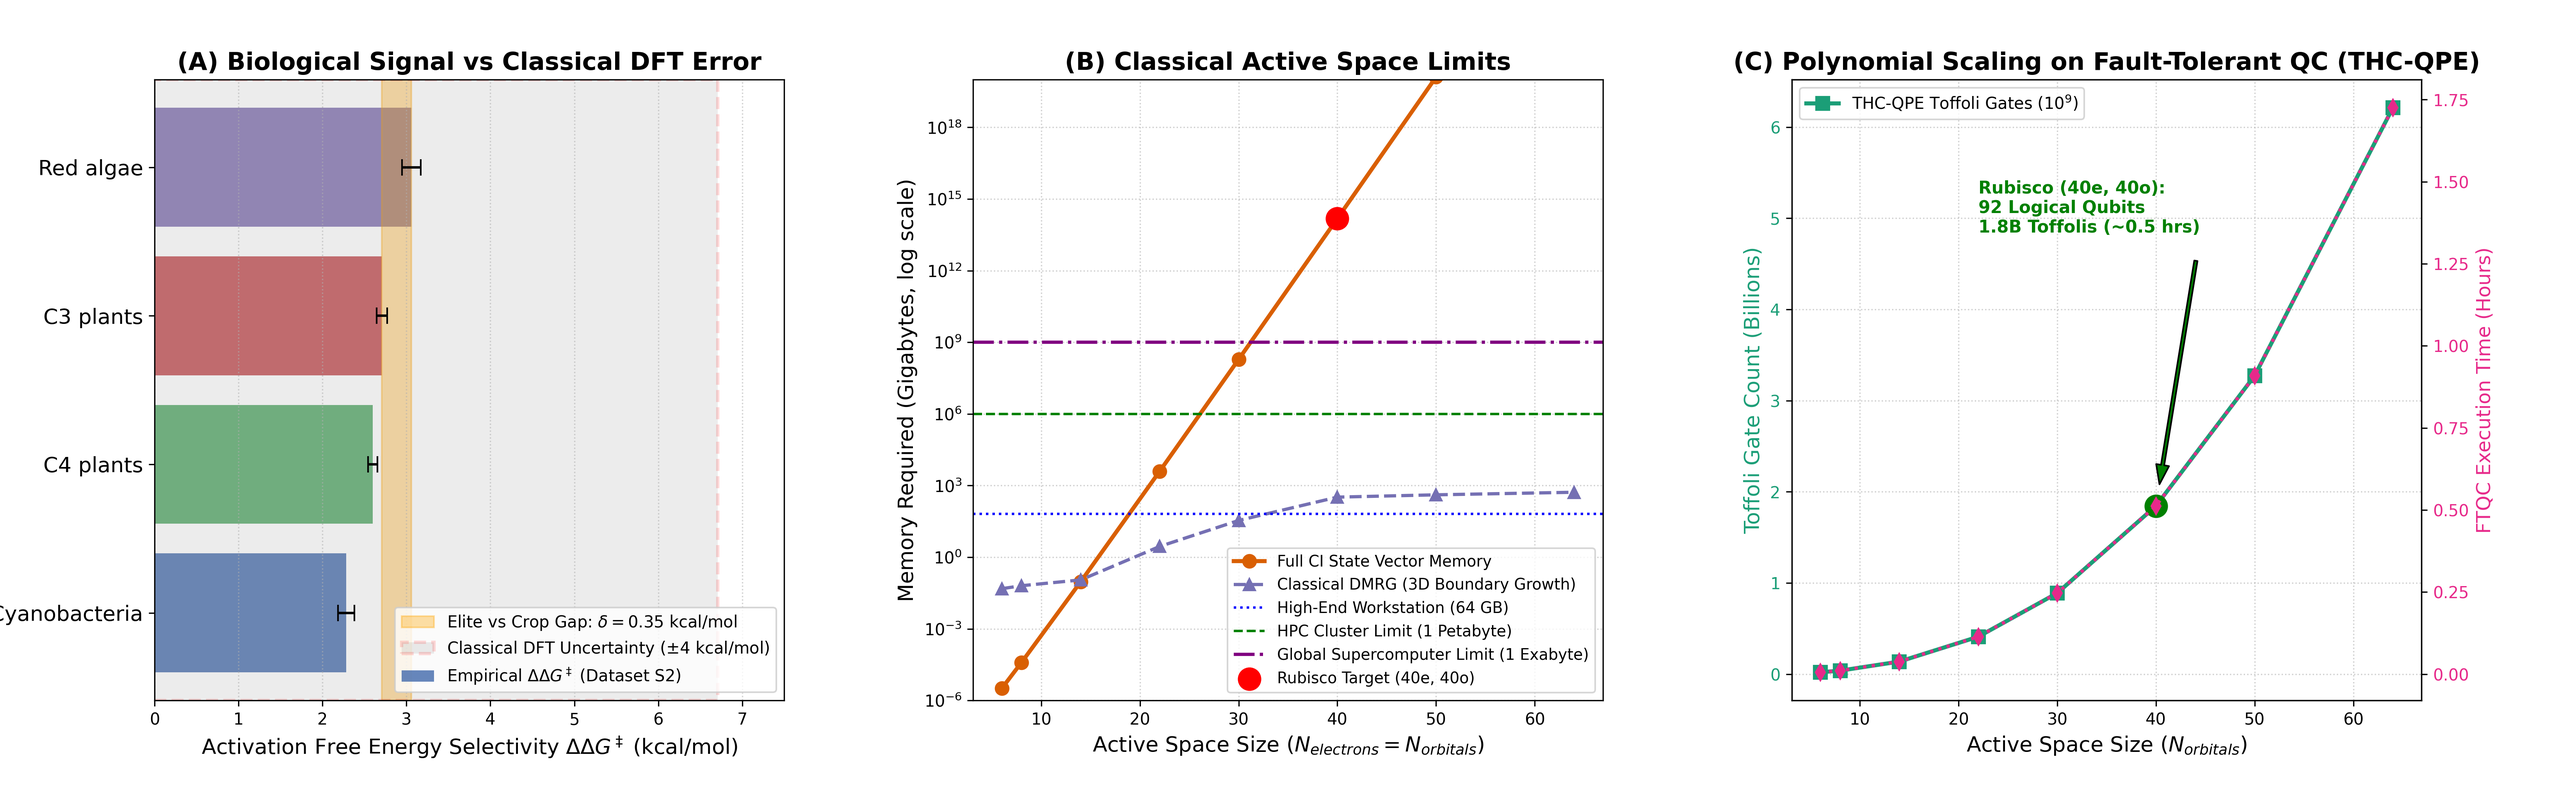
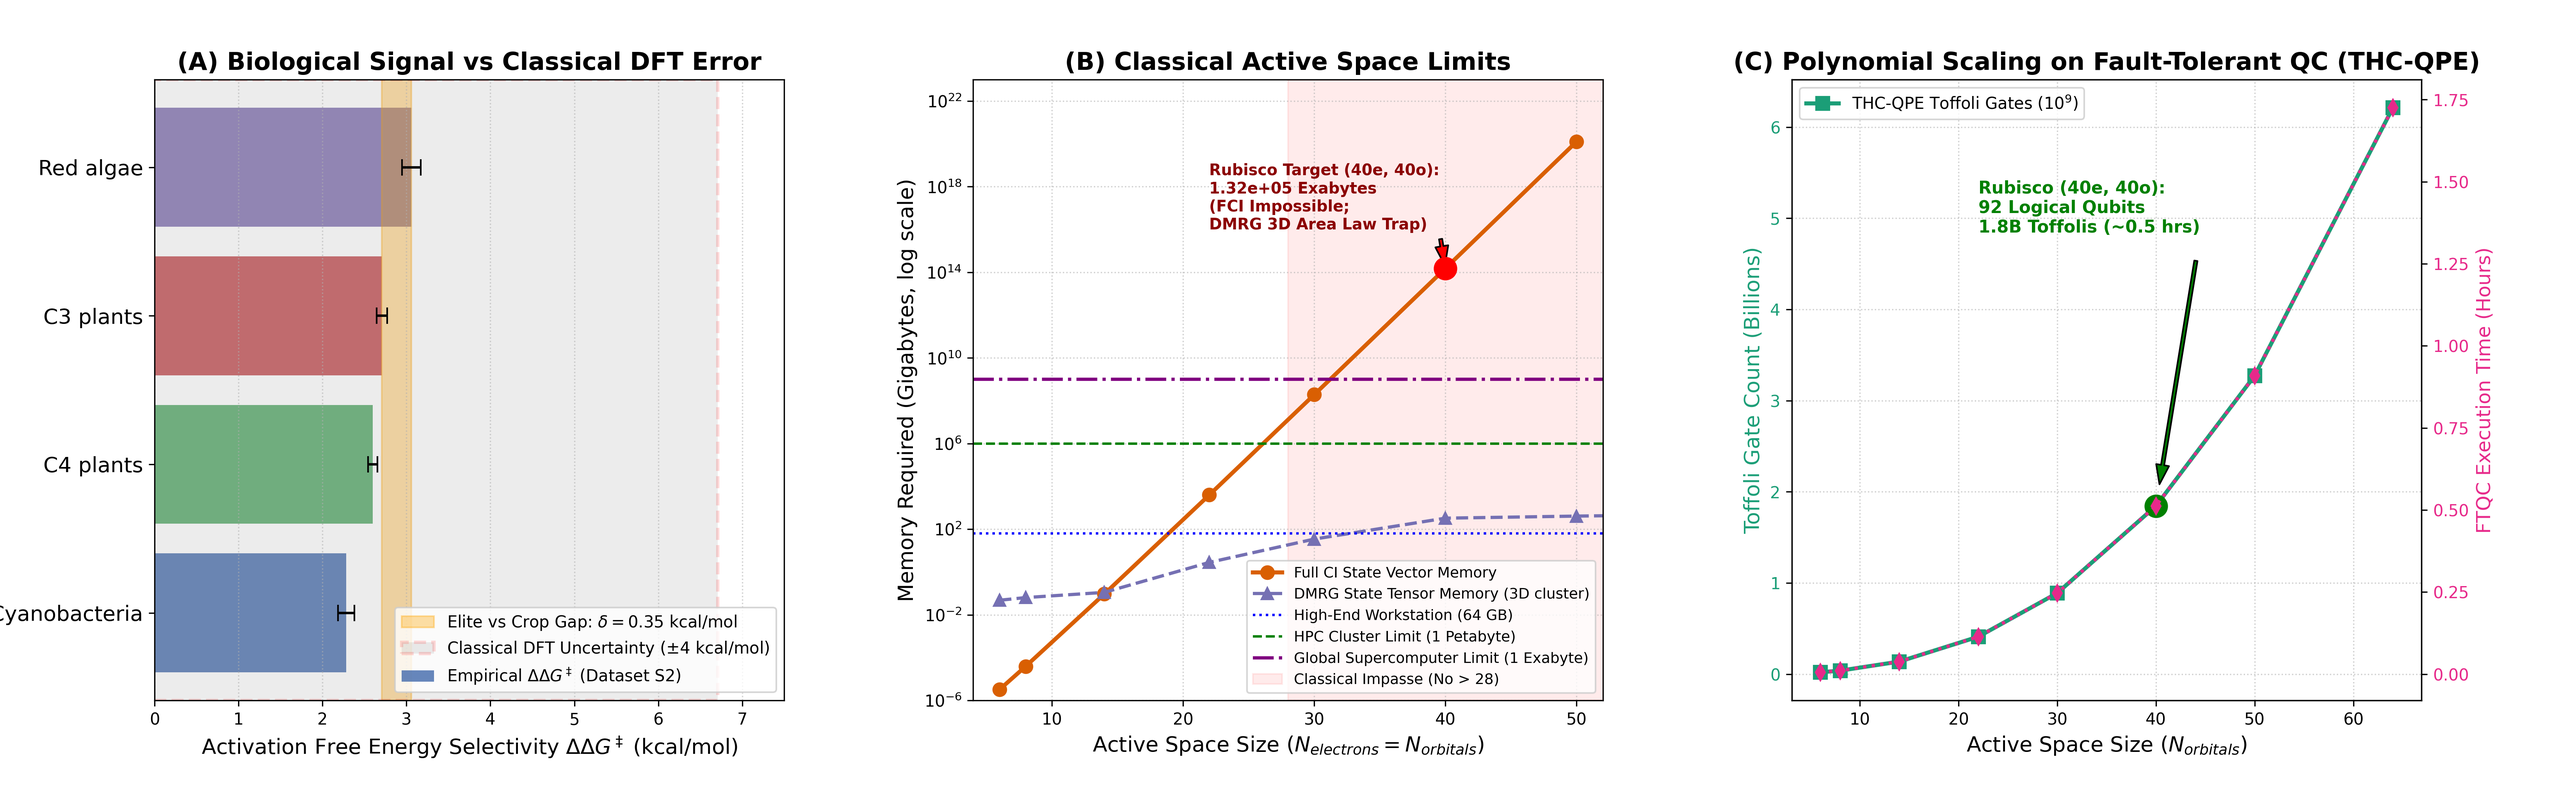
fix: refine classical active space plot bounds, DMRG 3D boundary, and tractability regimes

diff --git a/scripts/quantum_bottleneck_assessment.py b/scripts/quantum_bottleneck_assessment.py
@@ -252,24 +252,37 @@ def generate_proof_figure(stats, scaling_data, output_path="figures/quantum_bott
     fci_mems_gb = [d["fci_mem_bytes"] / 1e9 for d in scaling_data]
     dmrg_mems_gb = [d["dmrg_mem_bytes"] / 1e9 for d in scaling_data]
 
-    ax2.plot(orbs, fci_mems_gb, marker="o", color="#D95F02", linewidth=2.5, markersize=8, label="Full CI State Vector Memory")
-    ax2.plot(orbs, dmrg_mems_gb, marker="^", color="#7570B3", linewidth=2.0, linestyle="--", markersize=7, label="Classical DMRG (3D Boundary Growth)")
+    # Plot Full CI up to No=50 so the line does not clip off ungracefully
+    plot_orbs = [d["No"] for d in scaling_data if d["No"] <= 50]
+    plot_fci = [d["fci_mem_bytes"] / 1e9 for d in scaling_data if d["No"] <= 50]
 
-    # Classical limits
+    ax2.plot(plot_orbs, plot_fci, marker="o", color="#D95F02", linewidth=2.5, markersize=8, label="Full CI State Vector Memory")
+    ax2.plot(orbs, dmrg_mems_gb, marker="^", color="#7570B3", linewidth=2.0, linestyle="--", markersize=7, label="DMRG State Tensor Memory (3D cluster)")
+
+    # Classical hardware limits
     ax2.axhline(64, color="blue", linestyle=":", linewidth=1.5, label="High-End Workstation (64 GB)")
     ax2.axhline(1e6, color="green", linestyle="--", linewidth=1.5, label="HPC Cluster Limit (1 Petabyte)")
     ax2.axhline(1e9, color="purple", linestyle="-.", linewidth=2, label="Global Supercomputer Limit (1 Exabyte)")
 
+    # Shaded classical intractable regime (No > 28)
+    ax2.axvspan(28, 66, color="red", alpha=0.08, label="Classical Impasse (No > 28)")
+
     # Highlight Rubisco Target (40e, 40o)
     target = [d for d in scaling_data if d["No"] == 40][0]
-    ax2.scatter([40], [target["fci_mem_bytes"] / 1e9], color="red", s=180, zorder=5, label="Rubisco Target (40e, 40o)")
+    target_mem_gb = target["fci_mem_bytes"] / 1e9
+    ax2.scatter([40], [target_mem_gb], color="red", s=180, zorder=5)
+    ax2.annotate("Rubisco Target (40e, 40o):\n1.32e+05 Exabytes\n(FCI Impossible;\nDMRG 3D Area Law Trap)",
+                 xy=(40, target_mem_gb), xytext=(22, 1e16),
+                 arrowprops=dict(facecolor="red", shrink=0.08, width=2, headwidth=8),
+                 fontsize=9.5, fontweight="bold", color="darkred")
 
     ax2.set_yscale("log")
     ax2.set_xlabel("Active Space Size ($N_{electrons} = N_{orbitals}$)", fontsize=13)
     ax2.set_ylabel("Memory Required (Gigabytes, log scale)", fontsize=13)
     ax2.set_title("(B) Classical Active Space Limits", fontsize=15, fontweight="bold")
-    ax2.set_ylim(1e-6, 1e20)
-    ax2.legend(loc="lower right", fontsize=9.5, frameon=True)
+    ax2.set_xlim(4, 52)
+    ax2.set_ylim(1e-6, 1e23)
+    ax2.legend(loc="lower right", fontsize=9, frameon=True)
     ax2.grid(True, linestyle=":", alpha=0.6)
 
     # --- Panel C: Fault-Tolerant Quantum Algorithm Complexity (THC-QPE) ---
